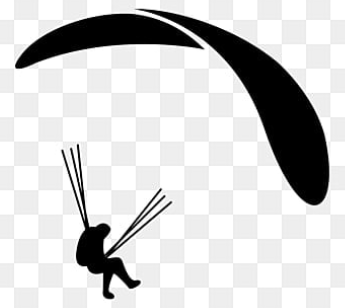
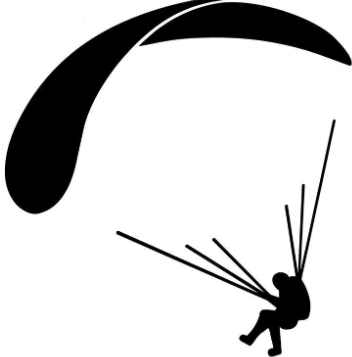
v0.211: panel Live XC (iframe XContest) + icono actualizado
- Nuevo chip de accion 'Live XC' en el card del despegue actual que abre
  un panel desplegable con el mapa en vivo de XContest (live.xcontest.org).
- El iframe se carga perezosamente (solo al abrir) para no penalizar el
  arranque. Permite geolocation para centrar en la posicion del usuario.
- El panel se actualiza al cambiar de despegue (titulo, nota con coords,
  enlace 'Abrir' a la web con hash informativo).
- Estilos responsive (70vh desktop / 60vh movil) con tema claro/oscuro.
- Icono parapente.png actualizado y reembebido en icon.svg (compuesto
  sobre fondo blanco para evitar que se vean los sectores de la roseta
  a traves del paraglider).
- APP_VERSION y CACHE bump a v0.211.

diff --git a/app.js b/app.js
@@ -1,6 +1,6 @@
 // === Configuración ===
 // v118: version visible al final de la app (mantener sincronizada con sw.js CACHE).
-const APP_VERSION = "v0.210";
+const APP_VERSION = "v0.211";
 // v165: feature flag para el override personal de criterios (🛠). Desactivado
 // por defecto: el codigo se mantiene intacto para poder reactivarlo poniendo
 // esta constante a true en el futuro. Mientras esta a false: el boton del
@@ -5714,6 +5714,11 @@ function applyCurrentTakeoffLabel() {
   renderCurrentTakeoffActions();
   renderTakeoffPanel();
   updatePanelForLabels();
+  // v0.211: si el panel de Live XC esta visible, actualizalo al nuevo despegue.
+  try {
+    const xp = document.getElementById("liveXcPanel");
+    if (xp && !xp.hidden) renderLiveXcPanel();
+  } catch {}
 }
 
 // v102: muestra en cada panel qué despegue / estación se está usando
@@ -5966,6 +5971,13 @@ function renderCurrentTakeoffActions() {
   if (doc2?.volandooUrl && /^https?:/i.test(doc2.volandooUrl)) {
     actions.push({ icon: "🪶", label: "Volandoo", href: doc2.volandooUrl });
   }
+  // v0.211: panel con el mapa en vivo de XContest (lazy-loaded en iframe).
+  actions.push({
+    icon: "🪂",
+    label: "Live XC",
+    run: () => toggleLiveXcPanel(),
+    isActive: !!(document.getElementById("liveXcPanel") && !document.getElementById("liveXcPanel").hidden),
+  });
   // v0.188: la brujula ya no es un chip; se renderiza como toggle (interruptor)
   // a la izquierda del todo de la barra de acciones, dentro del footer.
 
@@ -6016,6 +6028,82 @@ function renderCurrentTakeoffActions() {
     }
   }
 }
+
+// v0.211: panel desplegable con el mapa en vivo de XContest.
+// El iframe se inyecta perezosamente (solo al abrir el panel por primera
+// vez) para no penalizar la carga inicial. Al cambiar de despegue se
+// actualiza el texto del titulo y se recarga el iframe si esta visible.
+function toggleLiveXcPanel(forceState) {
+  const panel = document.getElementById("liveXcPanel");
+  if (!panel) return;
+  const willOpen = (typeof forceState === "boolean") ? forceState : panel.hidden;
+  panel.hidden = !willOpen;
+  if (willOpen) {
+    renderLiveXcPanel();
+    // Scroll suave hacia el panel para que se vea tras abrirlo.
+    try { panel.scrollIntoView({ behavior: "smooth", block: "nearest" }); } catch {}
+  }
+  // Refresca el estado activo del chip.
+  try { renderCurrentTakeoffActions(); } catch {}
+}
+
+function renderLiveXcPanel() {
+  const panel = document.getElementById("liveXcPanel");
+  if (!panel || panel.hidden) return;
+  const frameHost = document.getElementById("liveXcFrame");
+  const titleEl = document.getElementById("liveXcTitle");
+  const openA = document.getElementById("liveXcOpen");
+  const noteEl = document.getElementById("liveXcNote");
+  const lat = Number(currentTakeoff?.lat);
+  const lon = Number(currentTakeoff?.lon);
+  const hasCoords = Number.isFinite(lat) && Number.isFinite(lon);
+  const toName = currentStation?.shortName || currentStation?.name || currentTakeoff?.name || "";
+  if (titleEl) titleEl.textContent = toName
+    ? `Vuelos en directo · ${toName}`
+    : "Vuelos en directo · XContest";
+  // El enlace externo siempre apunta a live.xcontest.org (con hash informativo
+  // del despegue para que XContest lo respete si en algun momento soporta esos
+  // parametros; hoy se ignoran sin romper nada).
+  const ext = hasCoords
+    ? `https://live.xcontest.org/#lat=${lat.toFixed(4)}@lon=${lon.toFixed(4)}@zoom=11`
+    : "https://live.xcontest.org/";
+  if (openA) openA.href = ext;
+  if (noteEl) {
+    noteEl.innerHTML = hasCoords
+      ? `Centra el mapa en <strong>${escapeHtml(toName || "el despegue")}</strong> (${lat.toFixed(3)}, ${lon.toFixed(3)}). Si XContest pide tu ubicación, acéptala para ver pilotos cercanos; si no, usa el zoom del mapa.`
+      : `Mapa global de XContest. Selecciona un despegue para ver una posición de referencia.`;
+  }
+  if (frameHost) {
+    // Inyecta el iframe la primera vez o si cambio el despegue.
+    const currentSrc = frameHost.firstElementChild?.src || "";
+    if (currentSrc !== ext) {
+      frameHost.innerHTML = "";
+      const iframe = document.createElement("iframe");
+      iframe.src = ext;
+      iframe.loading = "lazy";
+      iframe.referrerPolicy = "no-referrer-when-downgrade";
+      iframe.allow = "geolocation; fullscreen";
+      iframe.title = "XContest Live";
+      frameHost.appendChild(iframe);
+    }
+  }
+}
+
+// v0.211: cableado del boton de cierre del panel Live XC (una sola vez).
+(function initLiveXcPanel() {
+  const wire = () => {
+    const btn = document.getElementById("liveXcClose");
+    if (btn && !btn.dataset.wired) {
+      btn.dataset.wired = "1";
+      btn.addEventListener("click", () => toggleLiveXcPanel(false));
+    }
+  };
+  if (document.readyState === "loading") {
+    document.addEventListener("DOMContentLoaded", wire, { once: true });
+  } else {
+    wire();
+  }
+})();
 
 function openTakeoffSuggest(originId) {
   const to = (window.PCAuth?.approvedTakeoffs || []).find(x => x.id === originId);

diff --git a/styles.css b/styles.css
@@ -2931,3 +2931,76 @@ section.card.collapsed > h2 { margin-bottom: 0; }
   border-color: rgba(39,140,80,0.55);
   box-shadow: 0 2px 8px rgba(40,70,120,0.12);
 }
+
+/* v0.211: panel del mapa en vivo de XContest (iframe lazy). */
+.live-xc-panel {
+  margin: 8px 0 4px;
+  border: 1px solid rgba(255,255,255,0.10);
+  border-radius: 10px;
+  background: rgba(255,255,255,0.03);
+  overflow: hidden;
+}
+.live-xc-head {
+  display: flex;
+  align-items: center;
+  gap: 8px;
+  padding: 6px 10px;
+  background: rgba(255,255,255,0.04);
+  border-bottom: 1px solid rgba(255,255,255,0.06);
+}
+.live-xc-title {
+  flex: 1 1 auto;
+  font-size: 0.85rem;
+  font-weight: 600;
+  color: var(--text, #e6edf3);
+}
+.live-xc-link {
+  color: var(--accent, #4aa3ff);
+  text-decoration: none;
+  font-size: 0.78rem;
+}
+.live-xc-link:hover { text-decoration: underline; }
+.live-xc-close {
+  background: transparent;
+  border: 0;
+  color: var(--muted, #9aa4af);
+  font-size: 1.2rem;
+  line-height: 1;
+  padding: 2px 6px;
+  cursor: pointer;
+  border-radius: 6px;
+}
+.live-xc-close:hover { background: rgba(255,255,255,0.08); color: #fff; }
+.live-xc-note {
+  padding: 6px 10px;
+  font-size: 0.72rem;
+  color: var(--muted, #9aa4af);
+  line-height: 1.35;
+}
+.live-xc-frame {
+  position: relative;
+  width: 100%;
+  height: 70vh;
+  min-height: 360px;
+  max-height: 720px;
+  background: #0b1117;
+}
+.live-xc-frame iframe {
+  width: 100%;
+  height: 100%;
+  border: 0;
+  display: block;
+}
+:root[data-theme="light"] .live-xc-panel,
+:root[data-theme="auto"] .live-xc-panel {
+  background: rgba(0,0,0,0.02);
+  border-color: rgba(0,0,0,0.10);
+}
+:root[data-theme="light"] .live-xc-head,
+:root[data-theme="auto"] .live-xc-head {
+  background: rgba(0,0,0,0.04);
+  border-bottom-color: rgba(0,0,0,0.06);
+}
+@media (max-width: 600px) {
+  .live-xc-frame { height: 60vh; min-height: 320px; }
+}

diff --git a/index.html b/index.html
@@ -179,6 +179,17 @@
         <div class="ts-actions-inline" id="tsActionsInline" hidden></div>
       </div>
 
+      <!-- v0.211: panel desplegable con el mapa en vivo de XContest. -->
+      <section class="live-xc-panel" id="liveXcPanel" hidden>
+        <div class="live-xc-head">
+          <span class="live-xc-title">🪂 <span id="liveXcTitle">Vuelos en directo · XContest</span></span>
+          <a id="liveXcOpen" class="live-xc-link" href="https://live.xcontest.org/" target="_blank" rel="noopener">Abrir ↗</a>
+          <button type="button" class="live-xc-close" id="liveXcClose" title="Cerrar" aria-label="Cerrar">×</button>
+        </div>
+        <div class="live-xc-note" id="liveXcNote"></div>
+        <div class="live-xc-frame" id="liveXcFrame"></div>
+      </section>
+
       <div class="wind-history" id="windHistory" hidden>
         <div class="wh-header">
           <span class="wh-title" id="whTitle">Últimas 2 h (km/h)</span>

diff --git a/sw.js b/sw.js
@@ -1,5 +1,5 @@
 // Service Worker básico para PWA: cache-first del shell, network-first de datos.
-const CACHE = "hoy-se-vuela-v0.210";
+const CACHE = "hoy-se-vuela-v0.211";
 const SHELL = [
   "./",
   "./index.html",
